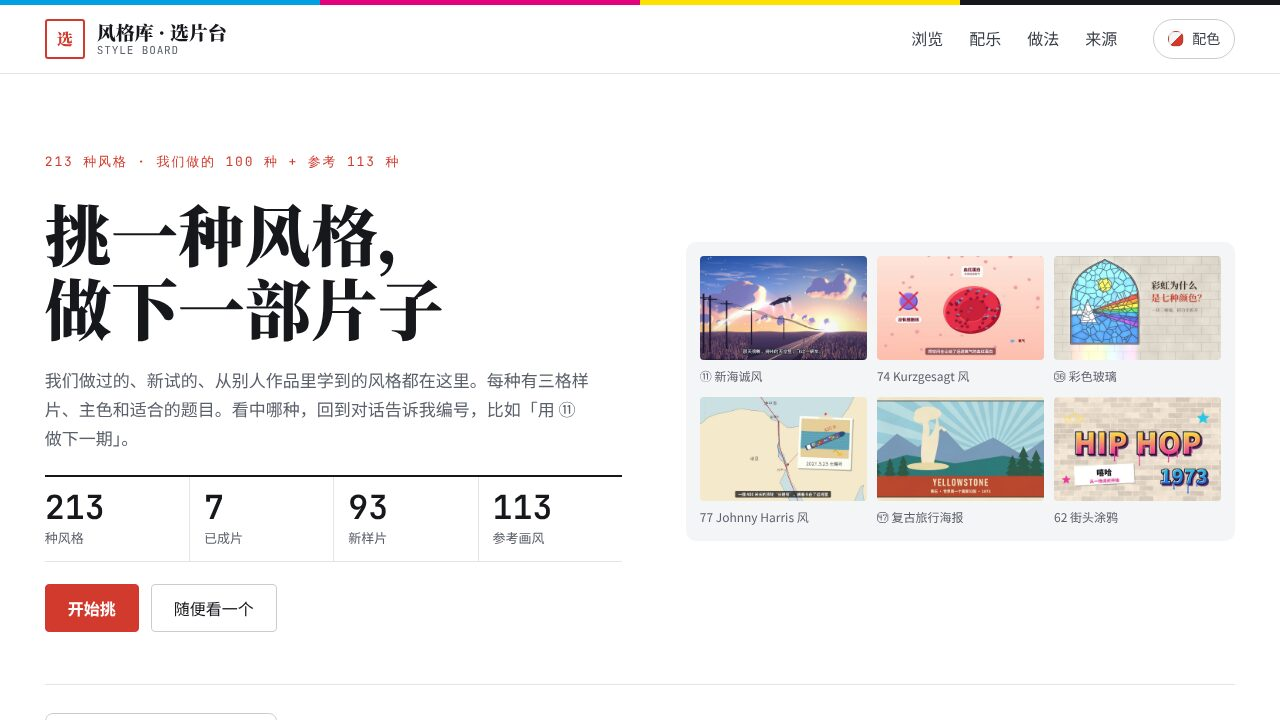
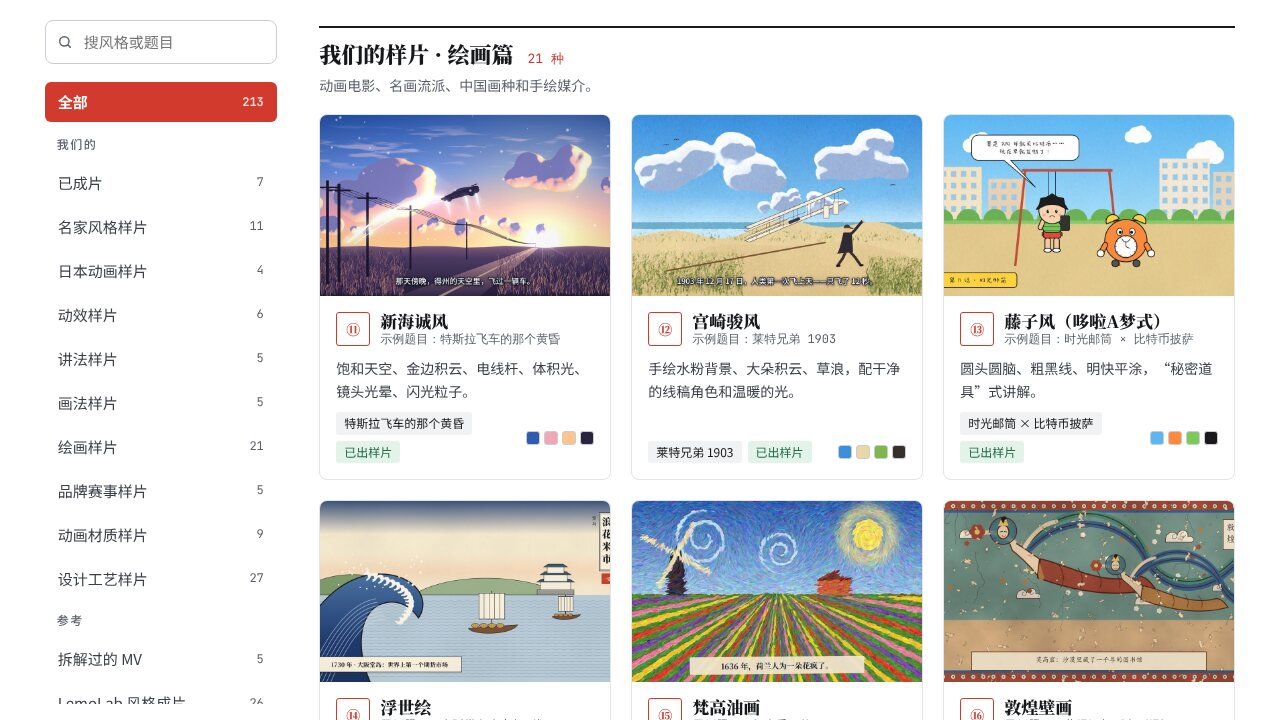
风格选片台封面换成分组浏览画面
Claude-Session: https://claude.ai/code/session_01HjwWSDh4akmZkcgzTiZTga

diff --git a/README.md b/README.md
@@ -49,7 +49,7 @@ K 线交易 roguelike。本金 ¥250,000，三个月房租 ¥342,000，每个交
 <table>
 <tr>
 <td width="50%" valign="top">
-<a href="https://obeyyourheart.github.io/style-board/"><img src="assets/style-board.jpg" alt="动画风格选片台 首页"></a>
+<a href="https://obeyyourheart.github.io/style-board/"><img src="assets/style-board.jpg" alt="动画风格选片台 按分组浏览"></a>
 </td>
 <td width="50%" valign="top">
 <h3><a href="https://obeyyourheart.github.io/style-board/">动画风格选片台</a></h3>
